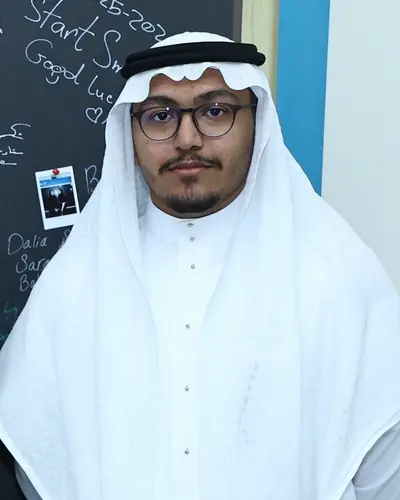
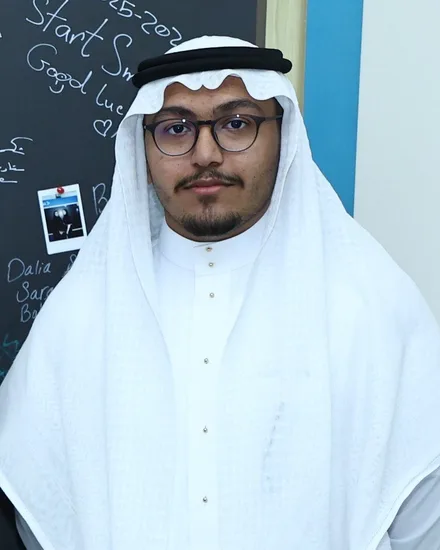
Make the profile card bigger on laptops and give its back two-line pills

diff --git a/src/components/ProfileCard.jsx b/src/components/ProfileCard.jsx
@@ -2,7 +2,11 @@ import { useEffect, useRef, useState } from 'react'
 import Blob from './Blob.jsx'
 import { onFrame } from '../scroll.js'
 
-const highlights = ['Associate Engineer @ eMcREY', 'Research @ University of Toronto', 'KAUST Academy AI Specialization']
+const highlights = [
+  ['Associate Engineer', 'eMcREY'],
+  ['AI Safety Research', 'University of Toronto'],
+  ['AI Specialization', 'KAUST Academy'],
+]
 
 // Flips 0 → 180deg over the first 70vh of scrolling on desktop (sticky column), 25vh on mobile
 // (the card scrolls away with the page, so the flip must finish while it's still on screen).
@@ -38,11 +42,11 @@ export default function ProfileCard({ className = '' }) {
             <div className="pc-face relative">
               <img
                 src="/me.webp"
-                srcSet="/me-200.webp 200w, /me.webp 400w"
-                sizes="(min-width: 1024px) 160px, 80vw"
+                srcSet="/me-200.webp 200w, /me.webp 440w"
+                sizes="(min-width: 1024px) 220px, 80vw"
                 alt="Abdullah"
-                width="400"
-                height="500"
+                width="440"
+                height="550"
                 fetchPriority="high"
                 className="size-full object-cover rounded-2xl border border-sky-100 shadow-xl shadow-sky-200/60"
               />
@@ -55,8 +59,11 @@ export default function ProfileCard({ className = '' }) {
               </span>
             </div>
             <div className="pc-face pc-back flex flex-col justify-center overflow-hidden rounded-2xl text-left bg-gradient-to-br from-sky-700 via-sky-800 to-sky-900 shadow-xl shadow-sky-200/60">
-              {highlights.map((h) => (
-                <p key={h} className="rounded-xl bg-white/10 border border-white/20 font-semibold text-white">{h}</p>
+              {highlights.map(([role, org]) => (
+                <p key={role} className="rounded-xl border border-white/20 bg-white/10 whitespace-nowrap text-white">
+                  <span className="block font-medium">{role}</span>
+                  <span className="block text-[0.85em] text-white/85">{org}</span>
+                </p>
               ))}
               <Blob className="pc-mark absolute bottom-3 right-3" size={24} />
             </div>

diff --git a/src/index.css b/src/index.css
@@ -210,7 +210,7 @@ body {
 }
 .pc-back {
   transform: rotateY(180deg);
-  /* sized from the card's width (cqw) so the highlights fit the 80–160px desktop card and the big mobile one */
+  /* sized from the card's width (cqw) so the highlights fit every card, desktop and mobile */
   padding: 6cqw;
   gap: 4cqw;
 }
@@ -224,17 +224,21 @@ body {
   .pc-back p { font-size: 10px; }
   .pc-back p:not(:first-child) { display: none; }
 }
-/* Desktop card: lifts the pills clear of the mascot. Phone cards are big enough to stay centred. */
+/* Small cards (very short laptop screens, very narrow phones): lifts the pills clear of the mascot. */
 @container (130px <= width < 200px) {
   .pc-back { padding-bottom: 14cqw; }
 }
 @media (min-width: 1024px) {
-  .pc-desk { width: 10rem; }
-  /* Short screens: tighten the column's own spacing rather than shrinking the card. */
-  @media (max-height: 860px) {
-    .sidecol { padding-block: 2rem; }
+  .pc-desk { width: 13.75rem; }
+  /* Up to 960px tall the full-spacing column doesn't fit: tighten the spacing, then let the card give way
+     (450px is everything else in the column) rather than clip the nav or the social icons. */
+  @media (max-height: 960px) {
+    .pc-desk { width: clamp(10rem, calc((100vh - 450px) * 0.8), 13.75rem); }
+    .sidecol { padding-block: clamp(1rem, calc((100vh - 693px) / 2), 4rem); }
+    .sidecol .pc-desk { margin-bottom: 1rem; }
+    .sidecol > ul { margin-top: 1rem; }
     .sidenav { margin-top: 1rem; }
-    .sidenav a { padding-block: 0.25rem; }
+    .sidenav a { padding-block: 0.125rem; }
   }
 }
 

diff --git a/index.html b/index.html
@@ -6,7 +6,7 @@
     <link rel="icon" type="image/png" sizes="32x32" href="/favicon-32.png" />
     <link rel="apple-touch-icon" href="/apple-touch-icon.png" />
     <meta name="viewport" content="width=device-width, initial-scale=1.0, viewport-fit=cover" />
-    <link rel="preload" as="image" href="/me.webp" imagesrcset="/me-200.webp 200w, /me.webp 400w" imagesizes="(min-width: 1024px) 160px, 70vw" type="image/webp" fetchpriority="high" />
+    <link rel="preload" as="image" href="/me.webp" imagesrcset="/me-200.webp 200w, /me.webp 440w" imagesizes="(min-width: 1024px) 220px, 80vw" type="image/webp" fetchpriority="high" />
     <!-- /cdg and /sky-soarer only: their hero image is the LCP but lives in a lazy chunk, so start it
          now. Must match the <img> srcset/sizes in Cdg.jsx / SkySoarer.jsx. -->
     <script>

diff --git a/CLAUDE.md b/CLAUDE.md
@@ -88,7 +88,8 @@ public/
   favicon.svg           simplified mascot icon
   favicon-32.png        PNG fallback
   apple-touch-icon.png  180px
-  me.webp me-200.webp   hero photo (400px / 200px)
+  me.webp me-200.webp   hero photo (440×550 / 200×250); me.webp is the 734×917 crop at x=154, y=570 of photo-source/me.jpg.
+                        The preload in index.html must match the <img> srcset/sizes in ProfileCard.jsx
   cdg/                  poster.webp (1400w) + poster-700/-500.webp, team-toronto.webp, team-kaust.webp
                         (/cdg's own; the events section uses public/events/ only)
   projects/sky-soarer/  the game's screenshots, <name>.webp (≤1400w) + <name>-700.webp (+ hero-500) — see §5
@@ -205,12 +206,16 @@ Where the browser supports scroll-driven animations, CSS does the work and JS is
 - Tap adds 180° on `.pc-tap`, which composes with the scroll flip on `.pc-inner`.
 - One-time wobble on `.pc-wobble` 900ms after load, to hint it's interactive; "tap to flip" badge on
   the front only.
-- Back face sizes its text with container query units (`cqw`) so it fits the 160px desktop card and
-  the ~274px mobile one; below 130px wide only the first highlight shows (the current role, so keep it first). Three
-  lines is the limit: a fourth fills the card and runs into the mascot at every size. On the 160px
-  desktop card, `padding-bottom: 14cqw` (container query, 130–200px wide) lifts the pills 3.7px clear of the mascot.
-- Desktop card is a fixed 10rem; short viewports tighten the column (`.sidecol`, `.sidenav`) instead
-  of shrinking the card.
+- Back face sizes its text with container query units (`cqw`) so it fits every card; below 130px wide only the first
+  highlight shows (the current role, so keep it first). Each pill is two fixed lines, role then organisation, set
+  `whitespace-nowrap`: at the smallest card checked (186px) the longest line still has 32px spare, so re-check that if a
+  label grows. Three pills is the limit: a fourth fills the card and runs into the mascot. `padding-bottom: 14cqw`
+  (container query, 130–200px wide) keeps the pills clear of the mascot on small cards, which now means screens under
+  about 700px tall and phones under about 300px wide.
+- Desktop card is 220×275 (`.pc-desk`). Up to 960px tall the full-spacing column doesn't fit, so spacing tightens
+  (`.sidecol`, `.sidenav`) and the card's width is `clamp(10rem, (100vh - 450px) * 0.8, 13.75rem)`, where 450px is everything
+  else in the column: 216×270 at 720px tall, 200×250 at 700px, 220×275 from 725px up. Adding to the column means updating
+  the 450px (and the 693px in its padding).
 
 ### Projects — "The Catch" — `Catch` / `catchTimeline` / `Fish` in `src/pages/Home.jsx`
 - **Replaced the stacked project cards on purpose** (owner's explicit decision, Oct 2026): the old
@@ -641,9 +646,6 @@ over a scrolling page. The stacked cards are gone — replaced by The Catch.)
 - **AUC wording is inconsistent.** `src/pages/Home.jsx` says "≈0.96 AUC" (experience entry and the
   CDG project card) while `src/pages/Cdg.jsx` says "near-perfect AUC". **The owner decides** which
   is correct; then make both match.
-- **Preload `imagesizes` mismatch:** `index.html` preloads `/me.webp` with
-  `imagesizes="(min-width: 1024px) 160px, 70vw"`, but `ProfileCard.jsx` uses `sizes="… 80vw"`. Same
-  candidate wins today, so it's cosmetic, but they should agree.
 - **Mascot drawing is duplicated** in `Blob.jsx` and `favicon.js` (plus `public/favicon.svg`).
   A change to the face means editing all three.
 - **`public/apple-touch-icon.png` is 43 kB** for a 180px icon — could be optimised.
@@ -667,8 +669,7 @@ over a scrolling page. The stacked cards are gone — replaced by The Catch.)
    that best-practices is back to 100 on the deployment.
 3. Consider updating the CDG card blurb on the homepage to match the sharper framing of the write-up
    (detection easy / correction hard).
-4. Fix the `imagesizes` / `sizes` mismatch.
-5. Shrink `apple-touch-icon.png`.
-6. Factor the mascot into one source of truth if it changes again.
-7. Optional: add `og:`/`twitter:` meta tags and a small OG image for link previews.
-8. Optional: a lightweight CI (`npm run build && npm run lint`) on pull requests.
+4. Shrink `apple-touch-icon.png`.
+5. Factor the mascot into one source of truth if it changes again.
+6. Optional: add `og:`/`twitter:` meta tags and a small OG image for link previews.
+7. Optional: a lightweight CI (`npm run build && npm run lint`) on pull requests.
